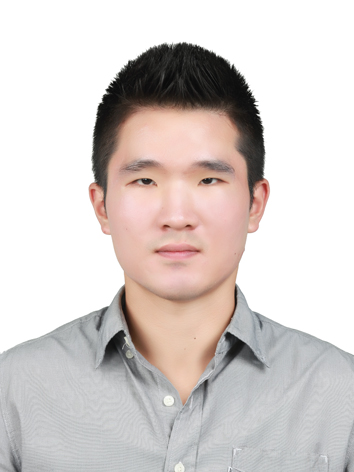
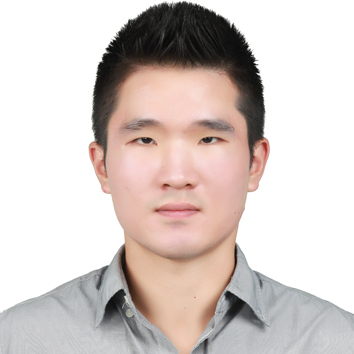
updated author

diff --git a/authors/admin/index.html b/authors/admin/index.html
@@ -397,7 +397,7 @@
 
       
       
-      <img class="portrait" src="/authors/admin/avatar_hu38b4164772f204614c678bb8c6439350_93054_250x250_fill_q90_lanczos_center.jpg" alt="Avatar">
+      <img class="portrait" src="/authors/admin/avatar_hu87dd8f1584c5b8e665659fa8ff03445c_77154_250x250_fill_q90_lanczos_center.jpg" alt="Avatar">
       
 
       <div class="portrait-title">

diff --git a/index.html b/index.html
@@ -458,7 +458,7 @@
 
       
       
-      <img class="portrait" src="/authors/admin/avatar_hu38b4164772f204614c678bb8c6439350_93054_250x250_fill_q90_lanczos_center.jpg" alt="Avatar">
+      <img class="portrait" src="/authors/admin/avatar_hu87dd8f1584c5b8e665659fa8ff03445c_77154_250x250_fill_q90_lanczos_center.jpg" alt="Avatar">
       
 
       <div class="portrait-title">
